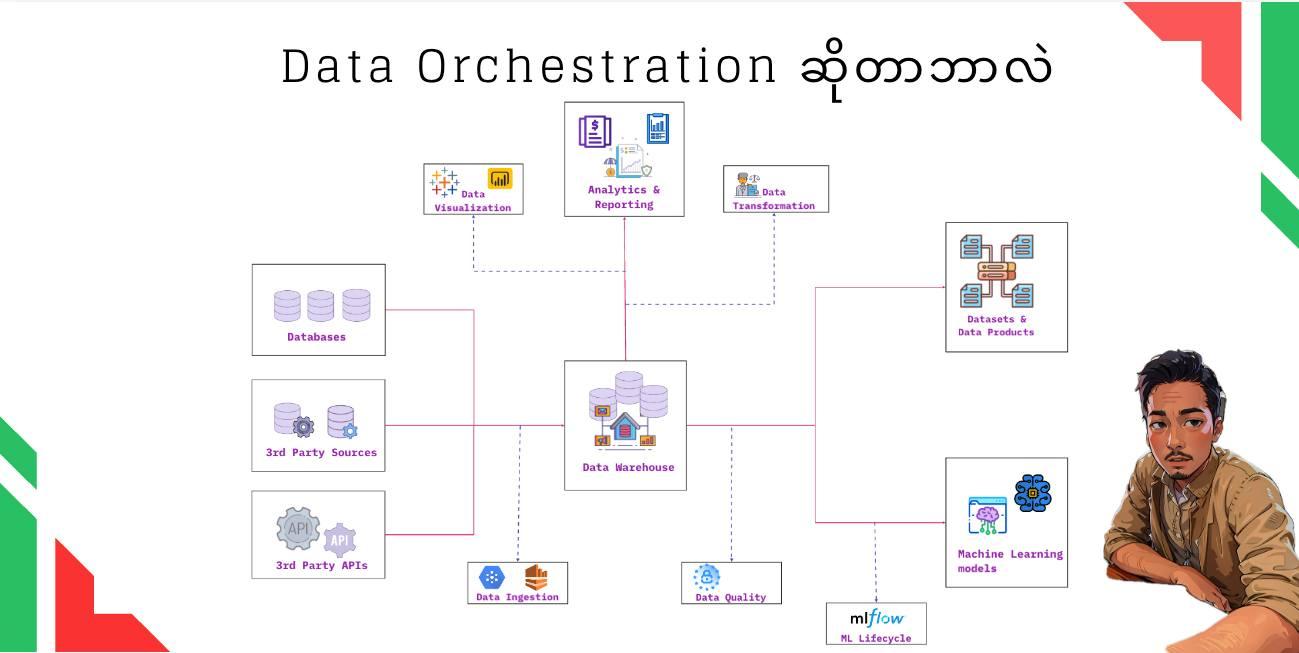
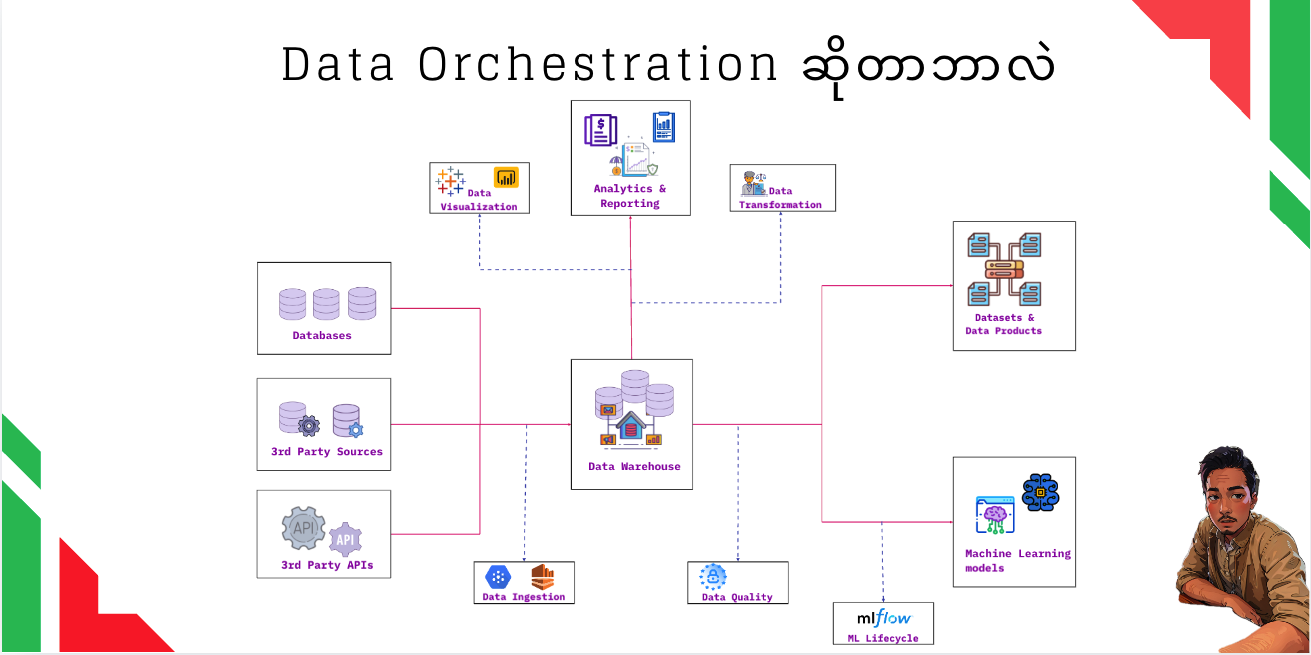
update readme

diff --git a/10_Pipeline_Orchestration/README.md b/10_Pipeline_Orchestration/README.md
@@ -1,11 +1,12 @@
-## 𝗗𝗮𝘁𝗮 𝗢𝗿𝗰𝗵𝗲𝘀𝘁𝗿𝗮𝘁𝗶𝗼𝗻 ဆိုတာဘာလဲ?
-### ဘာလို့ 𝗗𝗮𝘁𝗮 𝗢𝗿𝗰𝗵𝗲𝘀𝘁𝗿𝗮𝘁𝗶𝗼𝗻 လိုအပ်တာလဲ?
+<img src="./images/data_orchestration.png" alt="python logo" width="550" height="250" />
 
+### ဘာလို့ 𝗗𝗮𝘁𝗮 𝗢𝗿𝗰𝗵𝗲𝘀𝘁𝗿𝗮𝘁𝗶𝗼𝗻 လိုအပ်တာလဲ?
 အစရှိတဲ့ မေးခွန်းတွေ ဖြေဖို့အတွက်ဆိုရင် ကျွန်တော်တို့တွေ အရင်ခေတ်က 𝐝𝐚𝐭𝐚 𝐬𝐲𝐬𝐭𝐞𝐦 တွေနဲ့ ဒီဘက်ခေတ် 𝐝𝐚𝐭𝐚 𝐬𝐲𝐬𝐭𝐞𝐦 တွေကိုယှဉ်ကြည့်ဖို့လိုပါမယ်။
 
 အကြမ်းဖျင်းအားဖြင့် အရင်ခေတ်ကဆိုရင် 𝐂𝐨𝐦𝐩𝐚𝐧𝐲 တွေမှာက 𝐝𝐚𝐭𝐚 တွေကို 𝐝𝐚𝐭𝐚𝐛𝐚𝐬𝐞 ထဲပဲသိမ်းထားပီး 𝐝𝐞𝐯𝐞𝐥𝐨𝐩𝐞𝐫𝐬 တွေနဲ့ 𝐏𝐥𝐚𝐧𝐧𝐢𝐧𝐠 𝐚𝐧𝐝 𝐥𝐨𝐠𝐢𝐬𝐭𝐢𝐜𝐬 𝐝𝐞𝐩𝐚𝐫𝐭𝐦𝐞𝐧𝐭 လောက်ပဲအသုံးပြုကြပါတယ်။ဒါပေမဲ့ ဒီဘက်ခေတ်မှာတော့ 𝐂𝐨𝐦𝐩𝐚𝐧𝐲 တော်တော်များများမှာ 𝐝𝐚𝐭𝐚 ကိုအသုံးပြုတဲ့ 𝐝𝐚𝐭𝐚 𝐜𝐨𝐧𝐬𝐮𝐦𝐞𝐫𝐬 တွေများလာတဲ့အတွက် 𝐝𝐚𝐭𝐚 𝐰𝐚𝐫𝐞𝐡𝐨𝐮𝐬𝐞 တစ်ခုခုထဲထည့်ပီး မျိုးစုံအသုံးပြုလာကြပါတယ်။
 
 ဉပမာအနေနဲ့ အခုကျွန်တော် အောက်ပုံမှာပြထားတဲ့ 𝐭𝐲𝐩𝐢𝐜𝐚𝐥 𝐝𝐚𝐭𝐚 𝐝𝐫𝐢𝐯𝐞𝐧 𝐬𝐲𝐬𝐭𝐞𝐦 တစ်ခုဆိုပါတော့။
+
 ကျွန်တော်တို့တွေမှာ 𝐝𝐚𝐭𝐚 𝐜𝐨𝐧𝐬𝐮𝐦𝐞𝐫𝐬 တွေအများကြီးရှိနိုင်ပါတယ်။
 
 𝐏𝐥𝐚𝐧𝐧𝐢𝐧𝐠 𝐚𝐧𝐝 𝐥𝐨𝐠𝐢𝐬𝐭𝐢𝐜𝐬 𝐝𝐞𝐩𝐚𝐫𝐭𝐦𝐞𝐧𝐭 က 𝗱𝗮𝘁𝗮 𝗮𝗻𝗮𝗹𝘆𝘀𝘁 တွေလည်း 𝐫𝐞𝐚𝐥-𝐭𝐢𝐦𝐞 𝐢𝐧𝐭𝐞𝐫𝐚𝐜𝐭𝐢𝐯𝐞 𝐝𝐚𝐭𝐚 𝐝𝐚𝐬𝐡𝐛𝐨𝐚𝐫𝐝 တွေအတွက်အသုံးပြုချင်တယ်။
@@ -24,11 +25,25 @@
 ဆိုတော့က 𝐃𝐚𝐭𝐚 𝐎𝐫𝐜𝐡𝐞𝐬𝐭𝐫𝐚𝐭𝐢𝐨𝐧 ဆိုတာကို 𝐝𝐞𝐟𝐢𝐧𝐢𝐭𝐢𝐨𝐧 ပြန်ဖွင့်ရင် “မိမိလိုချင်တဲ့ 𝐝𝐚𝐭𝐚 𝐛𝐞𝐧𝐞𝐟𝐢𝐭𝐬 အတွက် 𝐝𝐚𝐭𝐚 ကို သူ့တန်ဖိုး မပျက်စေပဲ တစ်ဆင့် (သို့) အဆင့်ဆင့် ပြုပြင်ပြောင်းလဲခြင်း ” ဆိုပီးမှတ်ယူလို့ရပါတယ်။
 
 ဒီလောက်ဆိုရင် 𝐃𝐚𝐭𝐚 𝐎𝐫𝐜𝐡𝐞𝐬𝐭𝐫𝐚𝐭𝐢𝐨𝐧 အကြောင်းနည်းနည်းရမယ်လို့ထင်ပါတယ်။ 𝐃𝐚𝐭𝐚 𝐎𝐫𝐜𝐡𝐞𝐬𝐭𝐫𝐚𝐭𝐢𝐨𝐧 နဲ့ပတ်သက်လာရင် နာမည်ကြီးတဲ့ 𝑇𝑜𝑜𝑙𝑠 တွေအများကြီးရှိပါတယ်။ 𝐃𝐚𝐭𝐚 𝐃𝐫𝐢𝐯𝐞𝐧 𝐂𝐚𝐫𝐞𝐞𝐫 လုပ်တဲ့လူတွေကြားမှာ နာမည်ကြီးတာတွေကတော့
-𝟏. 𝐃𝐚𝐭𝐚 𝐁𝐫𝐢𝐜𝐤𝐬
-𝟐. 𝐀𝐢𝐫𝐟𝐥𝐨𝐰
-𝟑. 𝐃𝐚𝐭𝐚 𝐅𝐚𝐜𝐭𝐨𝐫𝐲
-𝟒. 𝐏𝐫𝐞𝐟𝐞𝐜𝐭.𝐢𝐨
-𝟓. 𝐊𝐮𝐛𝐞𝐟𝐥𝐨𝐰
+<br> 𝟏. 𝐃𝐚𝐭𝐚b𝐫𝐢𝐜𝐤𝐬
+<br> 𝟐. 𝐀𝐢𝐫𝐟𝐥𝐨𝐰
+<br> 𝟑. 𝐃𝐚𝐭𝐚 𝐅𝐚𝐜𝐭𝐨𝐫𝐲
+<br> 𝟒. 𝐏𝐫𝐞𝐟𝐞𝐜𝐭.𝐢𝐨
+<br> 𝟓. 𝐊𝐮𝐛𝐞𝐟𝐥𝐨𝐰
+
+
+
+
+### Prefect vs Airflow vs Databricks
+
+| Case |Prefect | Airflow | Databricks |
+|---------|---------|---------|---------|
+|Ease of Use | UI is straightforward, with deployment a breeze using API-based objects |  UI is minimalistic, with deployment focusing on operators and DAG construction | - |
+|Scalability | Highly scalable and can be incorporated into Prefect Cloud | Requires scaling of hardware | - |
+| Flexibility | Very flexible due to its blocks integrating with other data sources | Operators offer abstractions that allow for easy connections to other data sources| - | 
+| Monitoring and Logging | Modern, dynamic event-management | Logging must be constructed manually |- |
+| Community and Support | Newer and less community support |Older, lots of community support and development |- |
+
 
 
 
